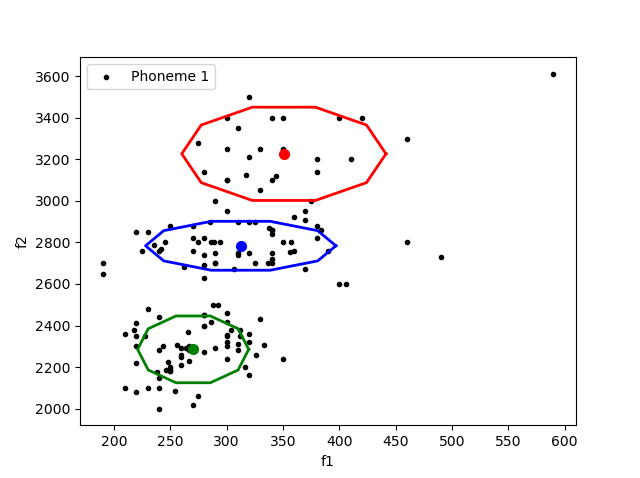
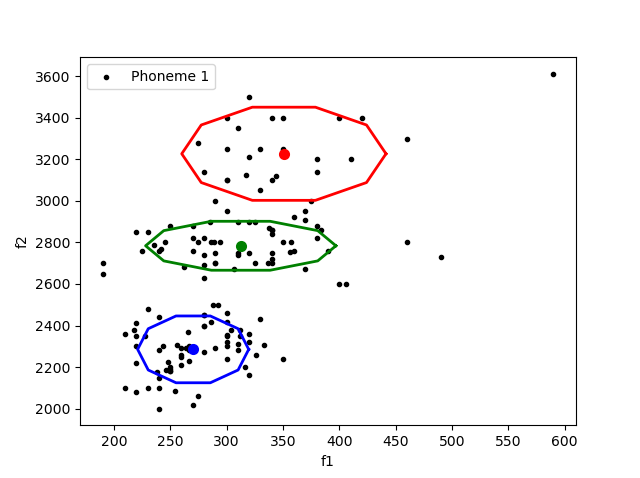
accuracy

diff --git a/task_3.py b/task_3.py
@@ -81,7 +81,7 @@ plt.savefig(plot_filename)
 
 #Declare models
 npy_filename_1 = 'data/GMM_params_phoneme_{:02}_k_{:02}.npy'.format(p_id_1, k)
-npy_filename_2 = 'data/GMM_params_phoneme_{:02}_k_{:02}.npy'.format(p_id_1, k)
+npy_filename_2 = 'data/GMM_params_phoneme_{:02}_k_{:02}.npy'.format(p_id_2, k)
 #Load in phoneme1
 npy_1 = np.load(npy_filename_1, allow_pickle=True)
 
@@ -99,22 +99,37 @@ X_phonemes_1_2_copy = X_phonemes_1_2.copy()
 #Run get_predictions GMM
 pred_1 = get_predictions(mu,s,p,X_phonemes_1_2_copy)
 
-sum1 = pred_1.sum(axis=1)
 
 #Sum
 phenome_1_pred = []
 for i in pred_1:
     phenome_1_pred.append(i[0] + i[1] + i[2])
 
+#Phoneme 2
 #Load in phoneme 2
-np.load(npy_filename_2,allow_pickle=True)
+npy_2 = np.load(npy_filename_2,allow_pickle=True)
+#convert to list
+npy_list_2 = np.ndarray.tolist(npy_2)
+
+mu_2 = npy_list_2['mu']
+s_2 = npy_list_2['s']
+p_2 = npy_list_2['p']
+
+
 ##Get Predictions for phoneme 2
-pred_2 = get_predictions(mu,s,p,X_phonemes_1_2)
+pred_2 = get_predictions(mu_2,s_2,p_2,X_phonemes_1_2_copy)
+#Sum
+phenome_2_pred = []
+for i in pred_2:
+    phenome_2_pred.append(i[0] + i[1] + i[2])
 
 
-
-
-#print('Accuracy using GMMs with {} components: {:.2f}%'.format(k, accuracy))
+#Predictions
+all_preds = np.ones(len(X_phonemes_1_2_copy))
+all_preds[phenome_1_pred >= phenome_2_pred] = 1
+header = phoneme_id[np.logical_or(phoneme_id==1, phoneme_id==2)]
+accuracy = np.sum(all_preds == header) / X_phonemes_1_2_copy.shape[0] * 100
+print('Accuracy using GMMs with {} components: {:.2f}%'.format(k, accuracy))
 
 ################################################
 # enter non-interactive mode of matplotlib, to keep figures open

diff --git a/task_2.py b/task_2.py
@@ -41,9 +41,9 @@ X_full = X_full.astype(np.float32)
 # We will train a GMM with k components, on a selected phoneme id which is stored in variable "p_id" 
 
 # number of GMM components
-k = 6 #3
+k = 6
 # you can use the p_id variable, to store the ID of the chosen phoneme that will be used (e.g. phoneme 1, or phoneme 2)
-p_id = 1
+p_id = 2
 
 #########################################
 # Write your code here
